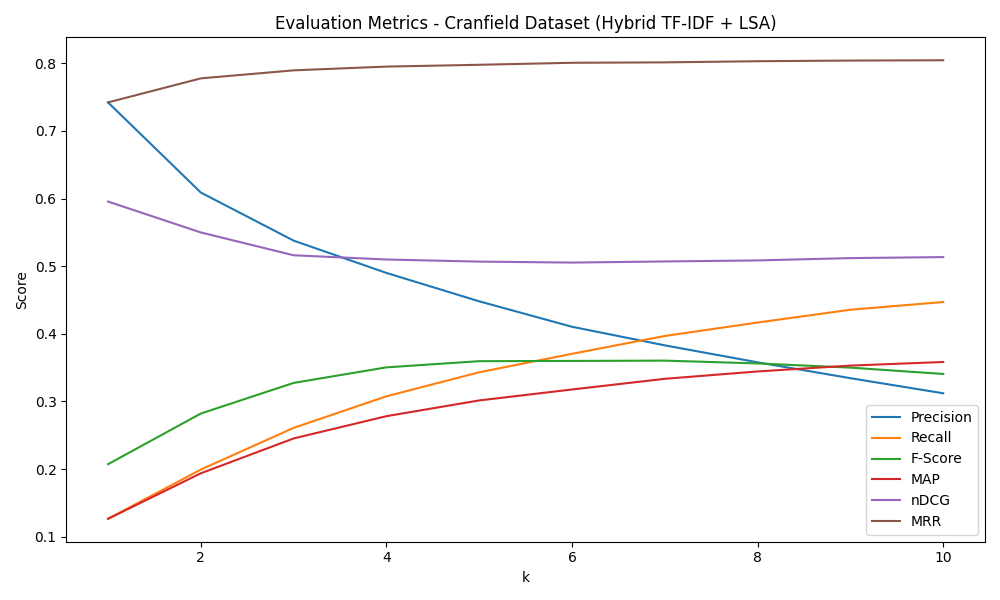
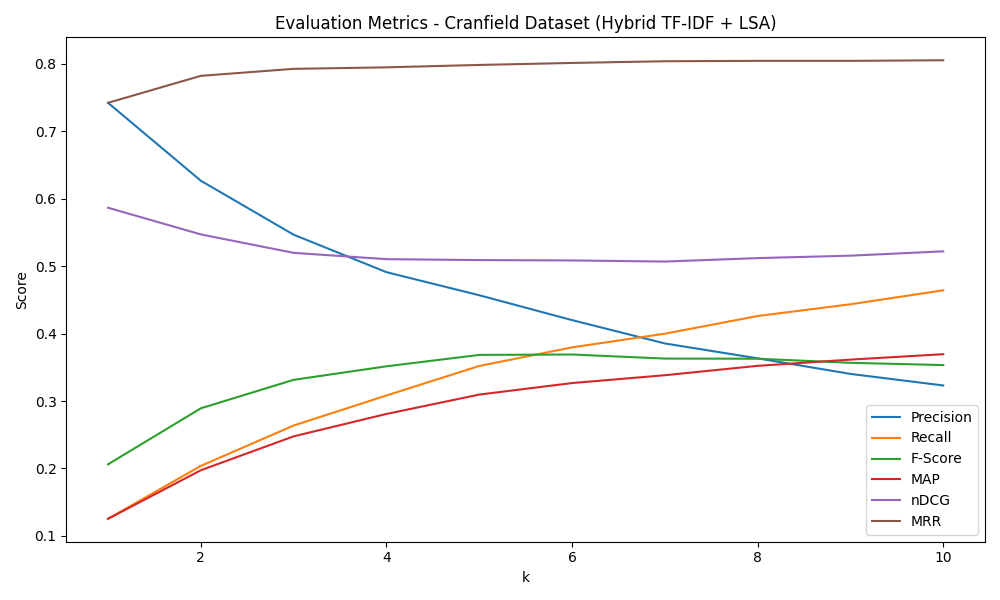
hybrid lsa

diff --git a/project/ramakrishna/hybrid_retrieval.py b/project/ramakrishna/hybrid_retrieval.py
@@ -7,8 +7,8 @@ from sklearn.preprocessing import normalize
 class HybridRetrieval:
     def __init__(
         self,
-        n_components=250,
-        tfidf_weight=0.5,
+        n_components=240,
+        tfidf_weight=0.2,
         random_state=42,
         sublinear_tf=True,
         max_df=0.95,

diff --git a/project/ramakrishna/run_hybrid.py b/project/ramakrishna/run_hybrid.py
@@ -197,8 +197,8 @@ def build_parser():
     )
     parser.add_argument("-segmenter", default="punkt", choices=["naive", "punkt"])
     parser.add_argument("-tokenizer", default="ptb", choices=["naive", "ptb"])
-    parser.add_argument("-lsa_components", type=int, default=250)
-    parser.add_argument("-tfidf_weight", type=float, default=0.5)
+    parser.add_argument("-lsa_components", type=int, default=240)
+    parser.add_argument("-tfidf_weight", type=float, default=0.2)
     parser.add_argument("-random_state", type=int, default=42)
     parser.add_argument("-max_df", type=float, default=0.95)
     parser.add_argument("-min_df", type=int, default=2)

diff --git a/project/ramakrishna/analysis.md b/project/ramakrishna/analysis.md
@@ -99,3 +99,94 @@ Overall pattern:
 
 We first tuned the latent dimensionality and found `250` components to provide the best overall trade-off. We then tuned the TF-IDF stage used before SVD, and the final configuration with `sublinear_tf=True`, `max_df=0.95`, and `min_df=2` gave the best overall LSA performance, improving over the baseline TF-IDF system on `MAP@10`, `nDCG@10`, `MRR@10`, and `P@1`.
 
+## Hybrid TF-IDF + LSA
+
+We implemented a hybrid retriever that combines:
+
+- cosine similarity in the TF-IDF space
+- cosine similarity in the LSA latent space
+
+using a weighted score fusion:
+
+`hybrid_score = alpha * tfidf_score + (1 - alpha) * lsa_score`
+
+## Hybrid tuning
+
+We tuned the following parameters for the hybrid system:
+
+- `tfidf_weight (alpha)`
+- `lsa_components`
+- `sublinear_tf`
+- `max_df`
+- `min_df`
+- `ngram_range`
+
+Best tuned hybrid configuration:
+
+- `lsa_components = 240`
+- `tfidf_weight = 0.2`
+- `sublinear_tf = True`
+- `max_df = 0.95`
+- `min_df = 2`
+- `ngram_range = (1, 1)`
+
+Key tuning observations:
+
+- A pure average was not best; the best hybrid gave slightly more weight to the LSA branch than to the TF-IDF branch.
+- `sublinear_tf=True` remained very important for hybrid performance.
+- `max_df=0.95` and `min_df=2` continued to help by filtering extremely common and very rare terms.
+- Adding bigrams increased vocabulary size substantially but reduced overall retrieval quality in the hybrid setup.
+
+## Final tuned hybrid result
+
+Final scores for the tuned hybrid system:
+
+- `MAP@10 = 0.3695`
+- `nDCG@10 = 0.5220`
+- `MRR@10 = 0.8053`
+- `P@1 = 0.7422`
+- explained variance ratio sum `= 0.5415`
+
+## Comparison of hybrid with baseline TF-IDF and tuned LSA
+
+Compared to the original TF-IDF baseline:
+
+- `MAP@10`: `0.3695` vs `0.3026`
+- `nDCG@10`: `0.5220` vs `0.4589`
+- `MRR@10`: `0.8053` vs `0.7368`
+- `P@1`: `0.7422` vs `0.6489`
+
+Compared to the tuned standalone LSA system:
+
+- `MAP@10`: `0.3695` vs `0.3665`
+- `nDCG@10`: `0.5220` vs `0.5169`
+- `MRR@10`: `0.8053` vs `0.7952`
+- `P@1`: `0.7422` vs `0.7289`
+
+So the hybrid is better than both the original TF-IDF baseline and the tuned standalone LSA system on the main ranking metrics.
+
+## Query-level case studies where the hybrid helps when both standalone methods are weak
+
+The following queries are useful examples where both standalone methods were weak, and the hybrid system gave a clearer improvement in at least one important retrieval behavior such as `AP@10`, first relevant rank, or the number of relevant documents in the top 5.
+
+| QID | Query | TF-IDF result | LSA result | Hybrid result | Hybrid gain |
+| --- | --- | --- | --- | --- | --- |
+| `162` | what accurate or exact solutions of the laminar separation point for various incompressible and compressible boundary layers with zero heat transfer are available | `1/5` relevant in top 5, `AP@10 = 0.059` | `1/5` relevant in top 5, `AP@10 = 0.148` | `2/5` relevant in top 5, `AP@10 = 0.203` | promoted relevant doc `54` into top 5 |
+| `80` | are methods of measuring aerodynamic derivatives available which could be adopted for use in short running time facilities | `1/5` relevant in top 5, `AP@10 = 0.200` | `1/5` relevant in top 5, `AP@10 = 0.267` | `2/5` relevant in top 5, `AP@10 = 0.280` | added relevant doc `597` to top 5 |
+| `95` | what is the theoretical heat transfer distribution around a hemisphere | `1/5` relevant in top 5, `AP@10 = 0.333` | `0/5` relevant in top 5, `AP@10 = 0.122` | `2/5` relevant in top 5, `AP@10 = 0.300` | improved top-5 relevant coverage by recovering `662` and `635` together |
+| `158` | what are the available properties of high-temperature air | `1/5` relevant in top 5, `AP@10 = 0.111` | `1/5` relevant in top 5, `AP@10 = 0.093` | `2/5` relevant in top 5, `AP@10 = 0.100` | improved top-5 relevant coverage by bringing `1011` into the top 5 |
+| `113` | what data exists on oscillatory aerodynamic forces on control surfaces at transonic mach numbers | `1/5` relevant in top 5, `AP@10 = 0.090` | `1/5` relevant in top 5, `AP@10 = 0.100` | first relevant at rank `1`, `AP@10 = 0.267` | moved relevant doc `748` to rank 1 |
+
+Short qualitative observations:
+
+- `Query 162`: both standalone systems focused on nearby but not exact laminar boundary layer papers; the hybrid recovered a directly relevant zero-heat-transfer document.
+- `Query 80`: both standalone methods found only one clearly relevant result, while the hybrid added another derivatives-measurement paper to the top 5.
+- `Query 95`: TF-IDF captured one relevant hemisphere paper and LSA drifted toward generic heat-transfer topics, while the hybrid recovered two relevant hemisphere-related documents together in the top 5.
+- `Query 158`: both standalone systems returned only one clearly relevant document in the top 5, while the hybrid pulled in another relevant high-temperature-air document.
+- `Query 113`: both standalone methods were weak, but the hybrid placed the most relevant control-surface flutter document at rank 1.
+
+Overall pattern for the hybrid:
+
+- TF-IDF contributes exact lexical precision.
+- LSA contributes broader semantic similarity.
+- The hybrid helps most when one method finds part of the signal and the other method supplies the missing complementary evidence.

diff --git a/project/ramakrishna/README.md b/project/ramakrishna/README.md
@@ -1,11 +1,16 @@
-# LSA Implementation
+# LSA and Hybrid Implementation
 
-This folder contains a standalone implementation of `LSA` for the Cranfield retrieval project.
+This folder contains standalone implementations of:
+
+- `LSA`
+- `Hybrid TF-IDF + LSA`
 
 ## Files
 
 - `lsa_retrieval.py`: LSA retriever built on top of TF-IDF + Truncated SVD
 - `run_lsa.py`: runner script for evaluation mode and custom-query mode
+- `hybrid_retrieval.py`: weighted score fusion of TF-IDF and LSA
+- `run_hybrid.py`: runner script for the hybrid retriever
 
 ## Run evaluation
 
@@ -27,12 +32,28 @@ This now uses the tuned defaults:
 python NLP_ASSIGNMENT2/project/ramakrishna/run_lsa.py -lsa_components 150
 ```
 
+## Run hybrid evaluation
+
+```powershell
+python NLP_ASSIGNMENT2/project/ramakrishna/run_hybrid.py
+```
+
+This now uses the tuned hybrid defaults:
+
+- `lsa_components = 240`
+- `tfidf_weight = 0.2`
+- `sublinear_tf = True`
+- `max_df = 0.95`
+- `min_df = 2`
+- `ngram_range = (1, 1)`
+
 ## Try other vectorizer settings
 
 ```powershell
 python NLP_ASSIGNMENT2/project/ramakrishna/run_lsa.py -max_df 1.0 -min_df 1
 python NLP_ASSIGNMENT2/project/ramakrishna/run_lsa.py -ngram_max 2
 python NLP_ASSIGNMENT2/project/ramakrishna/run_lsa.py -disable_sublinear_tf
+python NLP_ASSIGNMENT2/project/ramakrishna/run_hybrid.py -tfidf_weight 0.3 -lsa_components 200
 ```
 
 ## Run custom-query mode
@@ -47,3 +68,8 @@ The script writes these files to `output_lsa/` by default:
 
 - `lsa_eval_plot.png`
 - `lsa_summary.json`
+
+The hybrid script writes these files to `output_hybrid/` by default:
+
+- `hybrid_eval_plot.png`
+- `hybrid_summary.json`